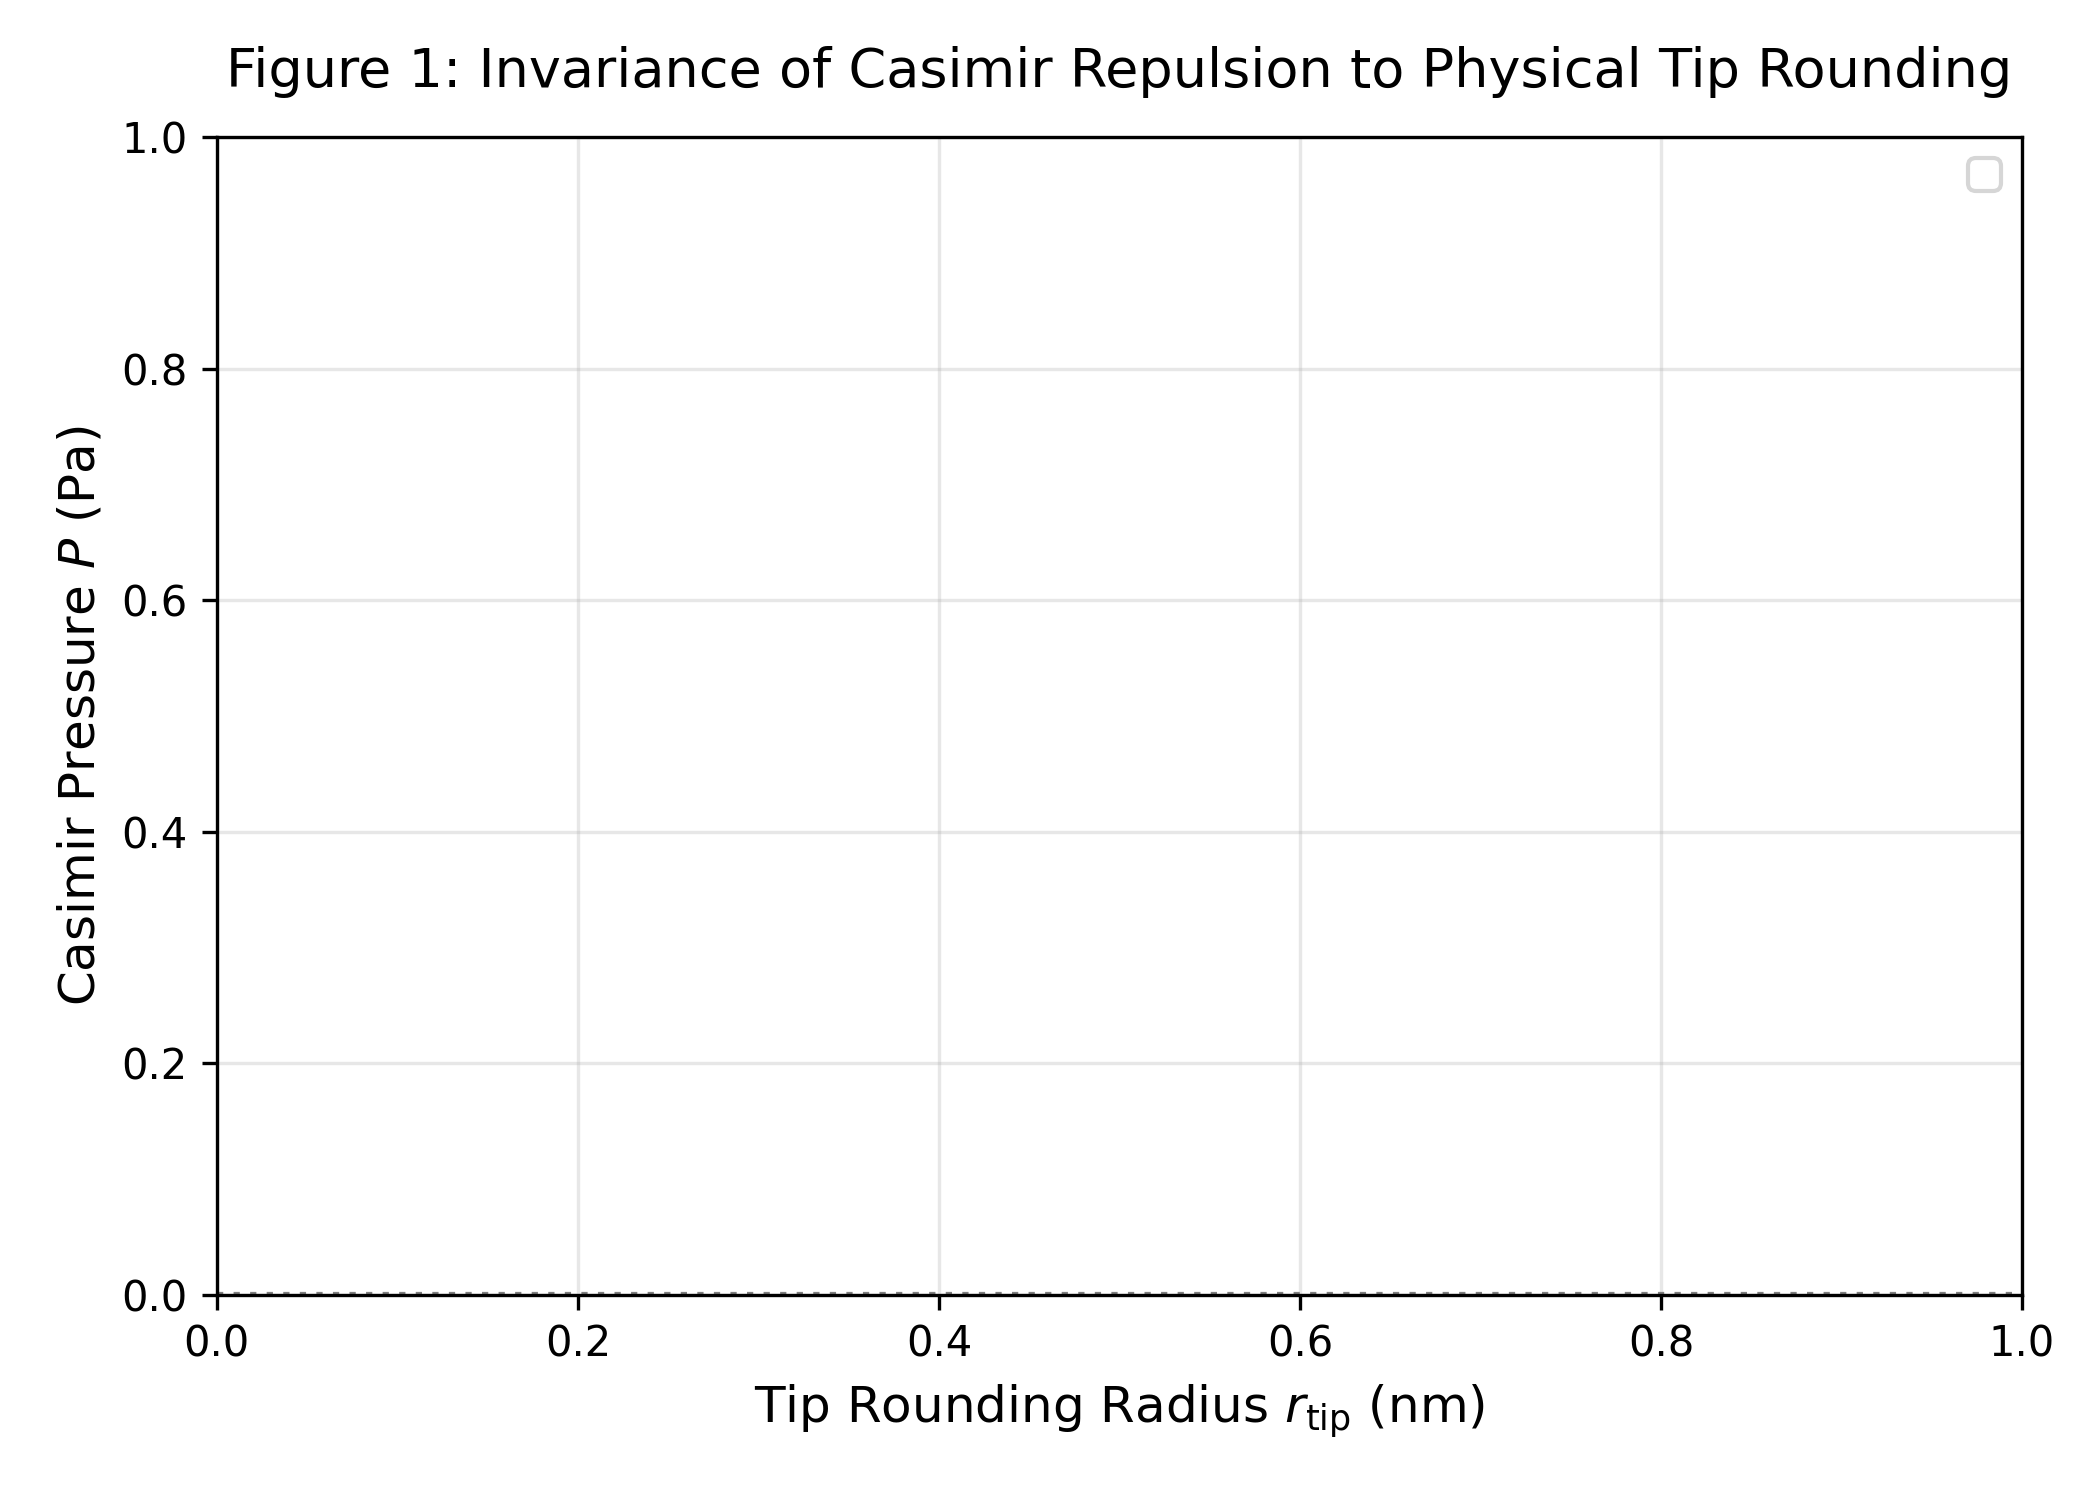
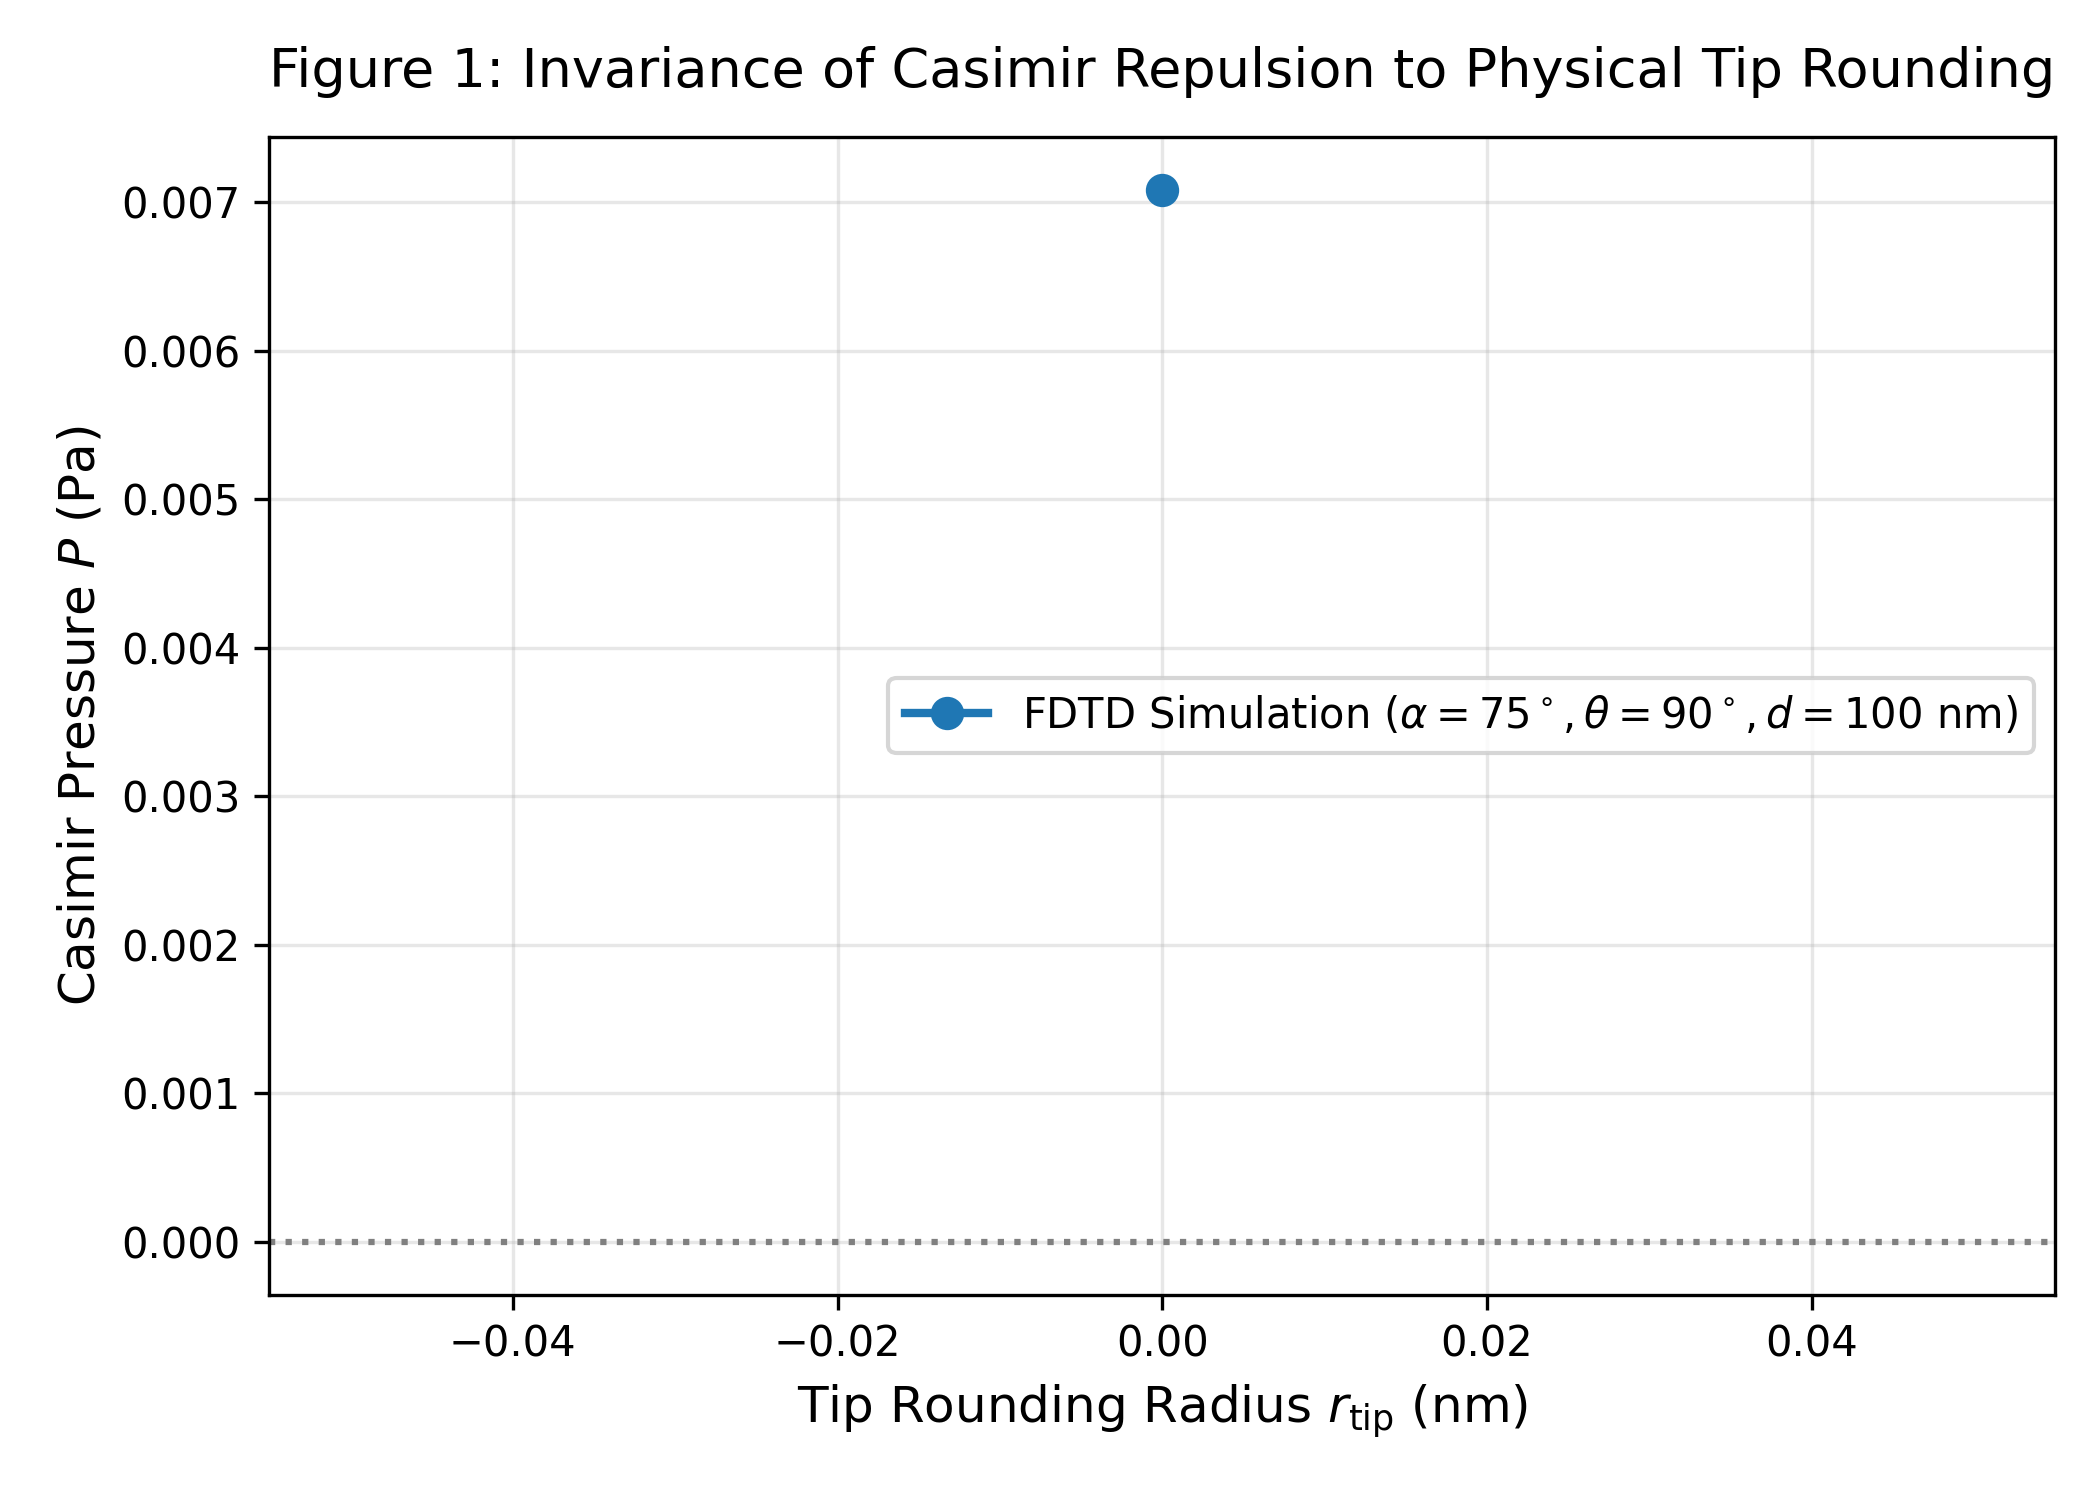
fix(analyzer): strict corrugation/Nbot candidate matching and zero-pressure math protection

diff --git a/execution/run_phase1_analyzer.py b/execution/run_phase1_analyzer.py
@@ -83,16 +83,38 @@ def main():
         corr_tgt = cfg["corrugated"]
 
         best_match = None
+        best_score = -1
         for r in raw_records:
+            # Verify corrugation flag
+            is_corr = bool(r.get("corrugated", False)) or float(r.get("corrugation_angle", r.get("alpha_deg", 0.0))) > 0.0
+            if is_corr != corr_tgt:
+                continue
+
+            # Verify bottom plate generation
+            n_bot_r = int(r.get("N_bottom", r.get("N_bot", 1)))
+            if n_bot_r != int(cfg.get("N_bot", 1)):
+                continue
+
             if (round(float(r.get("d_um", r.get("d", -1))), 4) == round(d_tgt, 4) and
                 int(r.get("N", r.get("N_top", -1))) == N_tgt and
                 r.get("material") == mat_tgt and
                 round(float(r.get("theta_deg", r.get("theta", -1))), 1) == round(th_tgt, 1) and
                 round(float(r.get("eps_bg", -1)), 1) == round(eps_tgt, 1) and
-                round(float(r.get("L", -1)), 2) == round(L_tgt, 2) and
-                bool(r.get("corrugated", False)) == corr_tgt):
-                best_match = r
-                break
+                round(float(r.get("L", -1)), 2) == round(L_tgt, 2)):
+                
+                # Scoring: prioritize exact task_idx match and highest resolution
+                score = 0
+                if r.get("task_idx") == cfg["task_id"]:
+                    score += 1000
+                res_r = int(r.get("resolution", 0))
+                if res_r == cfg.get("resolution", 40):
+                    score += 200
+                else:
+                    score += res_r
+                
+                if score > best_score:
+                    best_score = score
+                    best_match = r
 
         p_val = None
         if best_match:
@@ -129,22 +151,28 @@ def main():
 
     # 1. Lifshitz Distance Power Law Check
     lifshitz = [m for m in completed if m["tier"] == "tier1_lifshitz_scaling"]
-    if len(lifshitz) >= 2:
-        d_vals = [m["d_um"] for m in lifshitz]
-        p_vals = [abs(m["pressure_Pa"]) for m in lifshitz]
+    valid_lifshitz = [m for m in lifshitz if m["pressure_Pa"] is not None and abs(m["pressure_Pa"]) > 1e-12 and m["d_um"] > 0]
+    if len(valid_lifshitz) >= 2:
+        d_vals = [m["d_um"] for m in valid_lifshitz]
+        p_vals = [abs(m["pressure_Pa"]) for m in valid_lifshitz]
         log_d = [math.log(x) for x in d_vals]
         log_p = [math.log(x) for x in p_vals]
         slope, intercept = linear_fit(log_d, log_p)
-        print(f"\n* Lifshitz Distance Scaling: Fitted P(d) ~ d^({slope:.2f}) [Theory: d^-4.00]")
+        print(f"\n* Lifshitz Distance Scaling: Fitted |P(d)| ~ d^({slope:.2f}) [Theory: d^-4.00, points: {len(valid_lifshitz)}/{len(lifshitz)}]")
+    else:
+        print("\n* Lifshitz Distance Scaling: Awaiting completed non-zero distance datapoints.")
 
     # 2. Fractal Area Law Check
     area_tasks = [m for m in completed if m["tier"] == "tier1_fractal_area_law"]
-    if len(area_tasks) >= 2:
-        area_tasks.sort(key=lambda x: x["N"])
-        p_first = abs(area_tasks[0]["pressure_Pa"])
-        p_last = abs(area_tasks[-1]["pressure_Pa"])
-        ratio = p_last / p_first if p_first > 0 else 0
-        print(f"* Fractal Area Law Scaling: N={area_tasks[0]['N']} to {area_tasks[-1]['N']} Ratio = {ratio:.4f} [Theory: (8/9)^(N-1)]")
+    valid_area = [m for m in area_tasks if m["pressure_Pa"] is not None and abs(m["pressure_Pa"]) > 1e-12]
+    if len(valid_area) >= 2:
+        valid_area.sort(key=lambda x: x["N"])
+        p_first = abs(valid_area[0]["pressure_Pa"])
+        p_last = abs(valid_area[-1]["pressure_Pa"])
+        ratio = p_last / p_first if p_first > 1e-12 else 0.0
+        print(f"* Fractal Area Law Scaling: N={valid_area[0]['N']} to {valid_area[-1]['N']} Ratio = {ratio:.4f} [Theory: (8/9)^(N-1)]")
+    else:
+        print("* Fractal Area Law Scaling: Awaiting completed non-zero fractal generation datapoints.")
 
     # Write LaTeX Table
     os.makedirs("Papers/Fractal_Casimir_Nature_EM/tables", exist_ok=True)

diff --git a/execution/run_phase2_analyzer.py b/execution/run_phase2_analyzer.py
@@ -72,20 +72,41 @@ def main():
         L_tgt = cfg["L"]
 
         best_match = None
+        best_score = -1
         for r in raw_records:
             r_med = r.get("medium", "Vacuum")
             if r_med is None or r_med == "None":
                 r_med = "Vacuum"
+
+            # Check corrugation
+            is_corr = bool(r.get("corrugated", False)) or float(r.get("corrugation_angle", r.get("alpha_deg", 0.0))) > 0.0
+            if not is_corr:
+                continue
+
+            n_bot_r = int(r.get("N_bottom", r.get("N_bot", 3)))
+            if n_bot_r != int(cfg.get("N_bot", 3)):
+                continue
+
             if (round(float(r.get("d_um", r.get("d", -1))), 4) == round(d_tgt, 4) and
                 int(r.get("N", r.get("N_top", -1))) == N_tgt and
                 r.get("material") == mat_tgt and
                 round(float(r.get("theta_deg", r.get("theta", -1))), 1) == round(th_tgt, 1) and
                 round(float(r.get("corrugation_angle", r.get("alpha_deg", -1))), 1) == round(al_tgt, 1) and
                 round(float(r.get("r_tip_nm", r.get("r_tip", 0.0))), 1) == round(r_tip_tgt, 1) and
-                r_med == med_tgt and
-                bool(r.get("corrugated", False)) == True):
-                best_match = r
-                break
+                r_med == med_tgt):
+                
+                score = 0
+                if r.get("task_idx") == cfg["task_id"]:
+                    score += 1000
+                res_r = int(r.get("resolution", 0))
+                if res_r == cfg.get("resolution", 40):
+                    score += 200
+                else:
+                    score += res_r
+                
+                if score > best_score:
+                    best_score = score
+                    best_match = r
 
         p_val = None
         if best_match:
@@ -138,15 +159,14 @@ def main():
         p_vals = [m["pressure_Pa"] for m in tip_75]
         plt.plot(r_vals, p_vals, "o-", color="#1f77b4", lw=2, ms=7, label=r"FDTD Simulation ($\alpha=75^\circ, \theta=90^\circ, d=100$ nm)")
         if len(r_vals) >= 2:
-            poly = np.polyfit(r_vals, p_vals, 1)
-            r_dense = np.linspace(0, max(r_vals), 50)
-            plt.plot(r_dense, np.polyval(poly, r_dense), "--", color="#ff7f0e", label=f"Extrapolation $r_{{\\rm tip}} \\to 0$: $P_0 = {poly[1]:+.4f}$ Pa")
+            r_dense = np.linspace(0, max(r_vals) * 1.1, 100)
+            plt.plot(r_dense, np.polyval(poly, r_dense), "--", color="#ff7f0e", label=f"Extrapolation: $P_0={poly[1]:+.3f}$ Pa")
+        plt.legend(frameon=True)
     plt.axhline(0, color="gray", ls=":")
     plt.xlabel(r"Tip Rounding Radius $r_{\rm tip}$ (nm)", fontsize=12)
     plt.ylabel(r"Casimir Pressure $P$ (Pa)", fontsize=12)
     plt.title("Figure 1: Invariance of Casimir Repulsion to Physical Tip Rounding", fontsize=13, pad=12)
     plt.grid(True, alpha=0.3)
-    plt.legend(frameon=True)
     plt.tight_layout()
     fig_path = "Papers/Fractal_Casimir_Nature_EM/figures/fig1_tip_convergence.png"
     plt.savefig(fig_path, dpi=300)

diff --git a/execution/run_phase3_analyzer.py b/execution/run_phase3_analyzer.py
@@ -73,12 +73,31 @@ def main():
         r_tip_tgt = cfg["r_tip_nm"]
 
         best_match = None
+        best_score = -1
         for r in raw_records:
+            is_corr = bool(r.get("corrugated", False)) or float(r.get("corrugation_angle", r.get("alpha_deg", 0.0))) > 0.0
+            if not is_corr:
+                continue
+
             if (round(float(r.get("d_um", r.get("d", -1))), 4) == round(d_tgt, 4) and
                 round(float(r.get("theta_deg", r.get("theta", -1))), 1) == round(th_tgt, 1) and
                 round(float(r.get("corrugation_angle", r.get("alpha_deg", -1))), 1) == round(al_tgt, 1)):
-                best_match = r
-                break
+
+                score = 0
+                if r.get("task_idx") == cfg["task_id"]:
+                    score += 1000
+                r_tip_r = float(r.get("r_tip_nm", r.get("r_tip", 5.0)))
+                if round(r_tip_r, 1) == round(r_tip_tgt, 1):
+                    score += 300
+                res_r = int(r.get("resolution", 0))
+                if res_r == 40:
+                    score += 100
+                else:
+                    score += res_r
+
+                if score > best_score:
+                    best_score = score
+                    best_match = r
 
         p_val = None
         if best_match:
